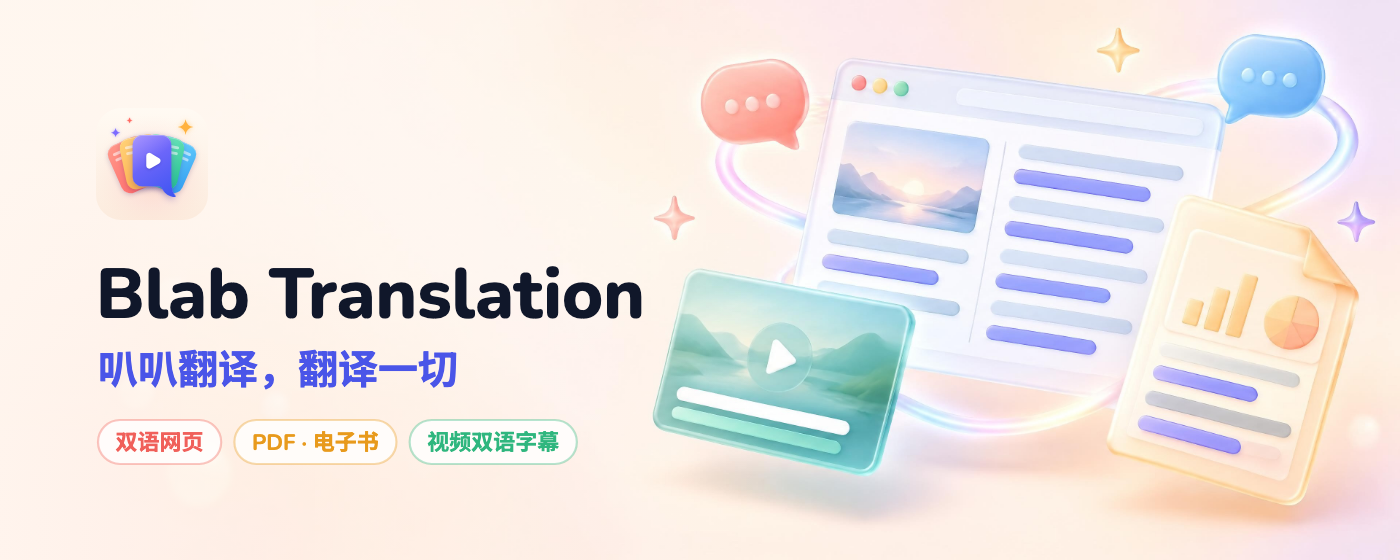
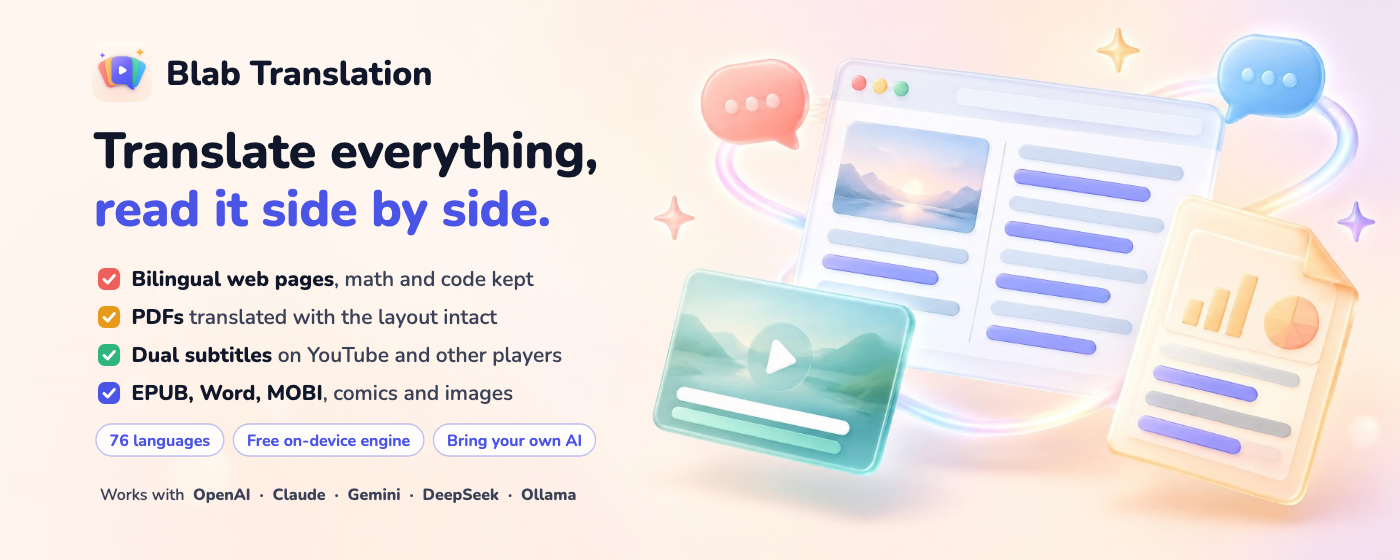
Rewrite store promo tiles in English with the feature list
The first tiles carried only the name, a Chinese slogan and three Chinese
pills, which said too little and did not suit an English-language listing.
Both tiles now draw English copy only: a headline, four checked features
(bilingual pages with math and code kept, PDFs with layout intact, dual
subtitles, EPUB/Word/MOBI/comics), pills for 76 languages, the free on-device
engine and bring-your-own-AI, and the supported providers. Every claim matches
the 1.5.0 store listing.

The Nunito subset now covers all printable ASCII so copy edits no longer need
a recut, and the Noto subset keeps only the TV banner's Chinese.

Changed region(s): [[0.0614, 0.4554, 0.4607, 0.9107], [0.0614, 0.2125, 0.43, 0.425], [0.0614, 0.0911, 0.3071, 0.1821]]

diff --git a/brand/blab-translation-2026-09-19/export.html b/brand/blab-translation-2026-09-19/export.html
@@ -40,46 +40,84 @@
     ctx.font = `${weight} ${size}px ${FONT}`;
     ctx.fillStyle = color;
     ctx.fillText(str, x, y);
+    return x + ctx.measureText(str).width;
   }
-  // 三个用途胶囊，颜色取自扇页
-  const USES = [['双语网页', '#F0605A'], ['PDF · 电子书', '#E89A1C'], ['视频双语字幕', '#2FB67E']];
-  function pills(ctx, x, y, size) {
+  // 卖点：彩色勾选方块 + 粗体关键词 + 常规说明，颜色取自扇页
+  const FEATURES = [
+    ['#F0605A', 'Bilingual web pages', ', math and code kept'],
+    ['#E89A1C', 'PDFs', ' translated with the layout intact'],
+    ['#2FB67E', 'Dual subtitles', ' on YouTube and other players'],
+    [ACCENT, 'EPUB, Word, MOBI', ', comics and images'],
+  ];
+  const MUTED = '#3B4258';
+  function check(ctx, x, y, size, color) {
+    ctx.beginPath();
+    ctx.roundRect(x, y, size, size, size * 0.3);
+    ctx.fillStyle = color;
+    ctx.fill();
+    ctx.beginPath();
+    ctx.moveTo(x + size * 0.27, y + size * 0.52);
+    ctx.lineTo(x + size * 0.44, y + size * 0.68);
+    ctx.lineTo(x + size * 0.74, y + size * 0.34);
+    ctx.strokeStyle = '#fff';
+    ctx.lineWidth = size * 0.13;
+    ctx.lineCap = 'round';
+    ctx.lineJoin = 'round';
+    ctx.stroke();
+  }
+  function features(ctx, list, x, y, size, step) {
+    for (const [color, lead, rest] of list) {
+      check(ctx, x, y - size * 0.86, size * 1.05, color);
+      const tx = text(ctx, lead, x + size * 1.6, y, 800, size, INK);
+      if (rest) text(ctx, rest, tx, y, 600, size, MUTED);
+      y += step;
+    }
+  }
+  function pills(ctx, labels, x, y, size) {
     ctx.font = `700 ${size}px ${FONT}`;
-    const padX = size * 0.8, hgt = size * 2;
-    for (const [label, color] of USES) {
+    const padX = size * 0.85, hgt = size * 2;
+    for (const label of labels) {
       const w = ctx.measureText(label).width + padX * 2;
       ctx.beginPath();
       ctx.roundRect(x, y, w, hgt, hgt / 2);
-      ctx.fillStyle = 'rgba(255,255,255,0.78)';
+      ctx.fillStyle = 'rgba(255,255,255,0.85)';
       ctx.fill();
-      ctx.strokeStyle = color;
-      ctx.globalAlpha = 0.35;
-      ctx.lineWidth = Math.max(1, size / 10);
+      ctx.strokeStyle = 'rgba(74,85,232,0.35)';
+      ctx.lineWidth = Math.max(1, size / 12);
       ctx.stroke();
-      ctx.globalAlpha = 1;
-      ctx.fillStyle = color;
-      ctx.fillText(label, x + padX, y + size * 1.36);
+      ctx.fillStyle = ACCENT;
+      ctx.fillText(label, x + padX, y + size * 1.37);
       x += w + size * 0.6;
     }
   }
   // Chrome 应用店大图 1400×560
   function drawPromoMarquee(ctx) {
-    // 按高缩放：插画整体右移约 90px，给标题让出视频卡左边
-    paintArt(ctx, ART.marquee, 1400, 560, 760, 560 / ART.marquee.height);
-    B.drawTile(ctx, 112, 96, 108);
+    // 按高缩放：插画整体右移约 90px，文字栏到视频卡左边（约 x 650）为止
+    paintArt(ctx, ART.marquee, 1400, 560, 820, 560 / ART.marquee.height);
     ctx.textBaseline = 'alphabetic';
-    text(ctx, 'Blab Translation', 96, 318, 800, 70, INK);
-    text(ctx, '叭叭翻译，翻译一切', 98, 384, 700, 40, ACCENT);
-    pills(ctx, 98, 420, 22);
+    B.drawTile(ctx, 60, 92, 42);
+    text(ctx, 'Blab Translation', 166, 85, 800, 34, INK);
+    text(ctx, 'Translate everything,', 94, 168, 800, 50, INK);
+    text(ctx, 'read it side by side.', 94, 226, 800, 50, ACCENT);
+    features(ctx, FEATURES, 98, 286, 21, 38);
+    pills(ctx, ['76 languages', 'Free on-device engine', 'Bring your own AI'], 96, 424, 16);
+    const tx = text(ctx, 'Works with  ', 100, 500, 600, 16, MUTED);
+    text(ctx, 'OpenAI  ·  Claude  ·  Gemini  ·  DeepSeek  ·  Ollama', tx, 500, 800, 16, MUTED);
   }
-  // Chrome 应用店小图 440×280
+  // Chrome 应用店小图 440×280：文字止于浏览器窗左边（约 x 172）
   function drawPromoSmall(ctx) {
-    paintArt(ctx, ART.small, 440, 280, 260);
-    B.drawTile(ctx, 52, 26, 30);
+    paintArt(ctx, ART.small, 440, 280, 280);
     ctx.textBaseline = 'alphabetic';
-    text(ctx, 'Blab', 26, 138, 800, 50, INK);
-    text(ctx, 'Translation', 27, 172, 700, 28, INK);
-    text(ctx, '叭叭翻译，翻译一切', 27, 212, 700, 18, ACCENT);
+    B.drawTile(ctx, 30, 24, 20);
+    text(ctx, 'Blab', 24, 92, 800, 40, INK);
+    text(ctx, 'Translation', 25, 118, 800, 21, INK);
+    features(ctx, [
+      ['#F0605A', 'Bilingual pages'],
+      ['#E89A1C', 'PDF, EPUB, Word'],
+      ['#2FB67E', 'Video subtitles'],
+    ], 25, 152, 14, 23);
+    text(ctx, '76 languages', 25, 236, 800, 15, ACCENT);
+    text(ctx, 'Free or your own AI', 25, 256, 700, 13, MUTED);
   }
   const sq = (file, size, draw) => ({ file, w: size, h: size, draw: (ctx) => draw(ctx, size) });
   const EXPORTS = [

diff --git a/brand/blab-translation-2026-09-19/README.md b/brand/blab-translation-2026-09-19/README.md
@@ -20,17 +20,20 @@ all sits on a warm tile.
   illustrations in `promo/` (`marquee-art.jpg`, `small-art.jpg`) came from
   Magic Art (`magic image`, 2k: the marquee at 21:9, the small tile at 3:2),
   prompted for no lettering at all. The marquee art is scaled to the tile's
-  height and right-aligned so the title clears its video card; the strip that
-  leaves on the left is filled by stretching the art's soft left edge. The tile, the wordmark, the slogan and the three feature pills are drawn
-  in `export.html`, because an image model cannot be trusted to spell or to
-  reproduce the mark. To change the copy, edit `drawPromoMarquee` /
+  height and right-aligned so the text column clears its video card; the
+  strip that leaves on the left is filled by stretching the art's soft left
+  edge. All the English copy is drawn in `export.html` (the tile, wordmark,
+  headline, feature list, pills and engine line), because an image model
+  cannot be trusted to spell or to reproduce the mark. Every claim must match
+  the store listing (`docs/store-submission-*.md`). To change the copy, edit `drawPromoMarquee` /
   `drawPromoSmall`. To change the picture, replace the JPEG. The export
   launches Chromium with `--allow-file-access-from-files`, so the file://
   JPEG does not taint the canvas.
 - All text (promo copy and the TV banners) is set in two fonts bundled in
   `fonts/`, never the host's: Nunito for Latin, Noto Sans SC for Chinese (SIL
   OFL 1.1, `fonts/OFL.txt`). Both are variable-weight woff2 files cut down to
-  the glyphs the drawings print. After changing any text, add its characters
+  the glyphs the drawings print: all of printable ASCII for Nunito, only the
+  TV banner's Chinese for Noto. After adding a character outside that, add it
   to `fonts/subset.sh` and rerun it against the full TTFs: a character
   missing from a subset is drawn in whatever host font has it. `export.mjs`
   stops if either font fails to load. Canvas rasterisation still differs
